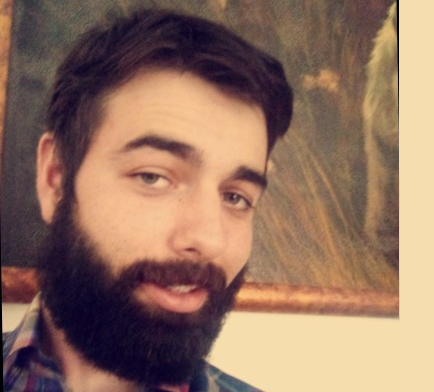
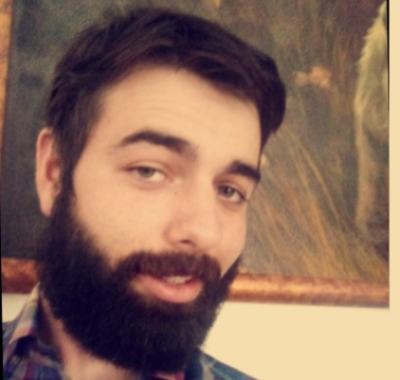
mobile roster

diff --git a/html/about.html b/html/about.html
@@ -149,9 +149,9 @@
                 <div class="container">
 
                     <div class="row">
-                        <div class="col-md-3">
+                        <div class="col-lg-3 col-md-6 col-sm-12">
                             <div class="card mb-4 shadow-sm">
-                                <img class="bd-placeholder-img card-img-top" width="100%" height="225" src="/assets/img/about us/Pierce.png" alt="Pierce Image" preserveAspectRatio="xMidYMid slice" focusable="false" role="img" aria-label="Placeholder: Thumbnail">
+                                <img class="bd-placeholder-img card-img-top" width="100%" height="80%" src="/assets/img/about us/Pierce.png" alt="Pierce Image" preserveAspectRatio="xMidYMid slice" focusable="false" role="img" aria-label="Placeholder: Thumbnail">
                                 <rect width="100%" height="100%" fill="#55595c"></rect>
                                 </img>
                                 <div class="card-body">
@@ -165,9 +165,9 @@
                                 </div>
                             </div>
                         </div>
-                        <div class="col-md-3">
+                        <div class="col-lg-3 col-md-6 col-sm-12">
                             <div class="card mb-4 shadow-sm">
-                                <img class="bd-placeholder-img card-img-top" width="100%" height="225" src="/assets/img/about us/Neil.png" alt="Neil Image" preserveAspectRatio="xMidYMid slice" focusable="false" role="img" aria-label="Placeholder: Thumbnail">
+                                <img class="bd-placeholder-img card-img-top" width="100%" height="80%" src="/assets/img/about us/Neil.png" alt="Neil Image" preserveAspectRatio="xMidYMid slice" focusable="false" role="img" aria-label="Placeholder: Thumbnail">
                                 <rect width="100%" height="100%" fill="#55595c"></rect>
                                 </img>
                                 <div class="card-body">
@@ -181,9 +181,9 @@
                                 </div>
                             </div>
                         </div>
-                        <div class="col-md-3">
+                        <div class="col-lg-3 col-md-6 col-sm-12">
                             <div class="card mb-4 shadow-sm">
-                                <img class="bd-placeholder-img card-img-top" width="100%" height="225" src="/assets/img/about us/David.png" alt="David Image" preserveAspectRatio="xMidYMid slice" focusable="false" role="img" aria-label="Placeholder: Thumbnail">
+                                <img class="bd-placeholder-img card-img-top" width="100%" height="80%" src="/assets/img/about us/David.png" alt="David Image" preserveAspectRatio="xMidYMid slice" focusable="false" role="img" aria-label="Placeholder: Thumbnail">
                                 <rect width="100%" height="100%" fill="#55595c"></rect>
                                 </img>
                                 <div class="card-body">
@@ -197,9 +197,9 @@
                                 </div>
                             </div>
                         </div>
-                        <div class="col-md-3">
+                        <div class="col-lg-3 col-md-6 col-sm-12">
                             <div class="card mb-4 shadow-sm">
-                                <img class="bd-placeholder-img card-img-top" width="100%" height="225" src="/assets/img/about us/David2.png" alt="David2 Image" preserveAspectRatio="xMidYMid slice" focusable="false" role="img" aria-label="Placeholder: Thumbnail">
+                                <img class="bd-placeholder-img card-img-top" width="100%" height="80%" src="/assets/img/about us/David2.png" alt="David2 Image" preserveAspectRatio="xMidYMid slice" focusable="false" role="img" aria-label="Placeholder: Thumbnail">
                                 <rect width="100%" height="100%" fill="#55595c"></rect>
                                 </img>
                                 <div class="card-body">
